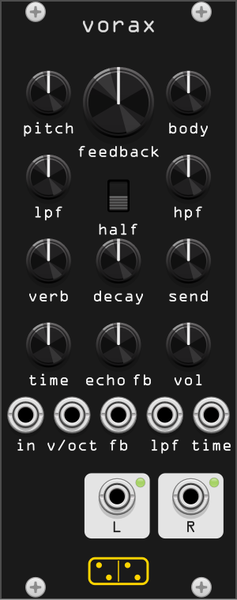
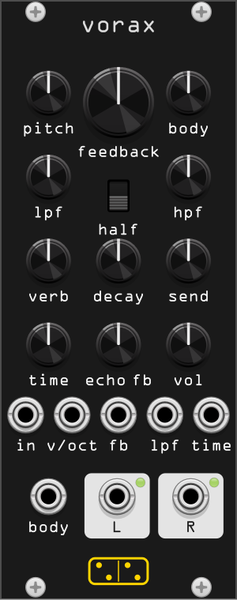
feat(vorax): the body delay takes CV
The knob is where the module's most interesting textures are, and it was
the one loop control with no jack. A volt moves it a tenth of a turn, so
0-10 V spans the knob and the CV rides the same square-law curve the hand
does; the ~1 s glide on the delay time stays, so slow modulation arrives
whole and fast modulation drifts instead of warbling.

The jack sits bottom left, beside the outputs, and BODY_CV_INPUT is
appended after the existing inputs rather than grouped with them: a saved
patch stores cables by port index, so renumbering would rewire patches
made with earlier versions.

Changed region(s): [[0.1181, 0.78, 0.2954, 0.9]]

diff --git a/src/vorax.cpp b/src/vorax.cpp
@@ -26,7 +26,8 @@
 //   Knobs : PITCH, FEEDBACK (the mysterious big knob), BODY, LPF, HPF,
 //           VERB MIX, VERB DECAY, ECHO SEND, ECHO TIME, ECHO FB, VOLUME
 //   Switch: HALF (instantly halves echo time for doppler warps)
-//   In    : audio IN (injected into the loop), V/OCT, FB CV, LPF CV, TIME CV
+//   In    : audio IN (injected into the loop), V/OCT, FB CV, BODY CV,
+//           LPF CV, TIME CV
 //   Out   : L, R
 //   Light : LEVEL (output amplitude)
 
@@ -590,6 +591,9 @@ struct Vorax : Module {
         FEEDBACK_CV_INPUT,
         LPF_CV_INPUT,
         TIME_CV_INPUT,
+        // appended, never inserted: a saved patch stores cables by port
+        // index, so renumbering the existing ones would rewire old patches
+        BODY_CV_INPUT,
         INPUTS_LEN
     };
     enum OutputId {
@@ -630,6 +634,7 @@ struct Vorax : Module {
         configInput(FEEDBACK_CV_INPUT, "Feedback gain CV (7.2 dB/V)");
         configInput(LPF_CV_INPUT, "Loop lowpass cutoff CV (1V/oct)");
         configInput(TIME_CV_INPUT, "Echo time CV (1V/oct)");
+        configInput(BODY_CV_INPUT, "Body delay CV (0.1 knob turn/V)");
         configOutput(LEFT_OUTPUT, "Left");
         configOutput(RIGHT_OUTPUT, "Right");
         configBypass(AUDIO_INPUT, LEFT_OUTPUT);
@@ -673,8 +678,11 @@ struct Vorax : Module {
                  + 7.2f * inputs[FEEDBACK_CV_INPUT].getVoltage();
         smFeedback.target = clamp(fb, -60.f, 12.f);
 
-        // body: EXP map 1..100 ms
-        float t = params[BODY_PARAM].getValue();
+        // body: EXP map 1..100 ms, CV adds to the knob position so a volt
+        // moves it a tenth of a turn, the same curve as the hand does
+        float t = params[BODY_PARAM].getValue()
+                + 0.1f * inputs[BODY_CV_INPUT].getVoltage();
+        t = clamp(t, 0.f, 1.f);
         smBody.target = 0.001f + t * t * 0.099f;
 
         // loop filter cutoffs: LOG maps, LPF gets 1V/oct CV
@@ -774,6 +782,7 @@ struct VoraxWidget : ModuleWidget {
 // @elem FEEDBACK_CV_INPUT PJ301MPort 4.18 input "" 0.0
 // @elem LPF_CV_INPUT PJ301MPort 4.18 input "" 0.0
 // @elem TIME_CV_INPUT PJ301MPort 4.18 input "" 0.0
+// @elem BODY_CV_INPUT PJ301MPort 4.18 input "" 0.0
 // @elem LEFT_OUTPUT PJ301MPort 4.18 output "" 0.0
 // @elem RIGHT_OUTPUT PJ301MPort 4.18 output "" 0.0
 // @elem LEVEL_L_LIGHT SmallLight 1.5 light "" 0.0
@@ -795,6 +804,7 @@ struct VoraxWidget : ModuleWidget {
 // @elem LABEL_FBCV label 0.0 label "fb" 0.0 25.40 96.50
 // @elem LABEL_LPFCV label 0.0 label "lpf" 0.0 35.35 96.50
 // @elem LABEL_TIMECV label 0.0 label "time" 0.0 45.30 96.50
+// @elem LABEL_BODYCV label 0.0 label "body" 0.0 10.40 114.00
 // @elem LABEL_L label 0.0 label "L" 0.0 25.10 114.00
 // @elem LABEL_R label 0.0 label "R" 0.0 40.90 114.00
 // @elem BOX_L panel_box 7.0 box "" 0.0 25.10 108.50
@@ -822,6 +832,7 @@ struct VoraxWidget : ModuleWidget {
         addInput(createInputCentered<PJ301MPort>(mm2px(Vec(25.40f, 89.00f)), module, Vorax::FEEDBACK_CV_INPUT));
         addInput(createInputCentered<PJ301MPort>(mm2px(Vec(35.35f, 89.00f)), module, Vorax::LPF_CV_INPUT));
         addInput(createInputCentered<PJ301MPort>(mm2px(Vec(45.30f, 89.00f)), module, Vorax::TIME_CV_INPUT));
+        addInput(createInputCentered<PJ301MPort>(mm2px(Vec(10.40f, 106.50f)), module, Vorax::BODY_CV_INPUT));
         addOutput(createOutputCentered<PJ301MPort>(mm2px(Vec(25.10f, 106.50f)), module, Vorax::LEFT_OUTPUT));
         addOutput(createOutputCentered<PJ301MPort>(mm2px(Vec(40.90f, 106.50f)), module, Vorax::RIGHT_OUTPUT));
         addChild(createLightCentered<SmallLight<GreenLight>>(mm2px(Vec(30.10f, 103.50f)), module, Vorax::LEVEL_L_LIGHT));

diff --git a/test/smoke_vorax.cpp b/test/smoke_vorax.cpp
@@ -48,6 +48,30 @@ static void testVorax() {
     report("vorax", "hostile_nans", h.nans, h.nans == 0);
     report("vorax", "hostile_bounded", h.peak, h.peak <= 10.01f);
     report("vorax", "hostile_alive", h.rms(), h.rms() > 0.05);
+    // body CV: a volt moves the knob a tenth of a turn, so knob 0.3 + 5 V
+    // must land on the same delay time as knob 0.8, and the sum clamps
+    m.inputs[Vorax::BODY_CV_INPUT].setChannels(1);
+    m.params[Vorax::BODY_PARAM].setValue(0.8f);
+    m.inputs[Vorax::BODY_CV_INPUT].setVoltage(0.f);
+    m.controlPhase = 0;
+    m.process(makeArgs(frame++));
+    float knobOnly = m.smBody.target;
+    m.params[Vorax::BODY_PARAM].setValue(0.3f);
+    m.inputs[Vorax::BODY_CV_INPUT].setVoltage(5.f);
+    m.controlPhase = 0;
+    m.process(makeArgs(frame++));
+    float withCv = m.smBody.target;
+    report("vorax", "body_cv_maps", withCv - knobOnly,
+           std::fabs(withCv - knobOnly) < 1e-6f);
+    m.params[Vorax::BODY_PARAM].setValue(1.f);
+    m.inputs[Vorax::BODY_CV_INPUT].setVoltage(10.f);
+    m.controlPhase = 0;
+    m.process(makeArgs(frame++));
+    report("vorax", "body_cv_clamped", m.smBody.target,
+           std::fabs(m.smBody.target - 0.1f) < 1e-6f);
+    m.inputs[Vorax::BODY_CV_INPUT].setVoltage(0.f);
+    m.params[Vorax::BODY_PARAM].setValue(0.f);
+
     // feedback back down: the drone must die away
     m.params[Vorax::FEEDBACK_PARAM].setValue(-60.f);
     m.params[Vorax::ECHO_FB_PARAM].setValue(0.f);
